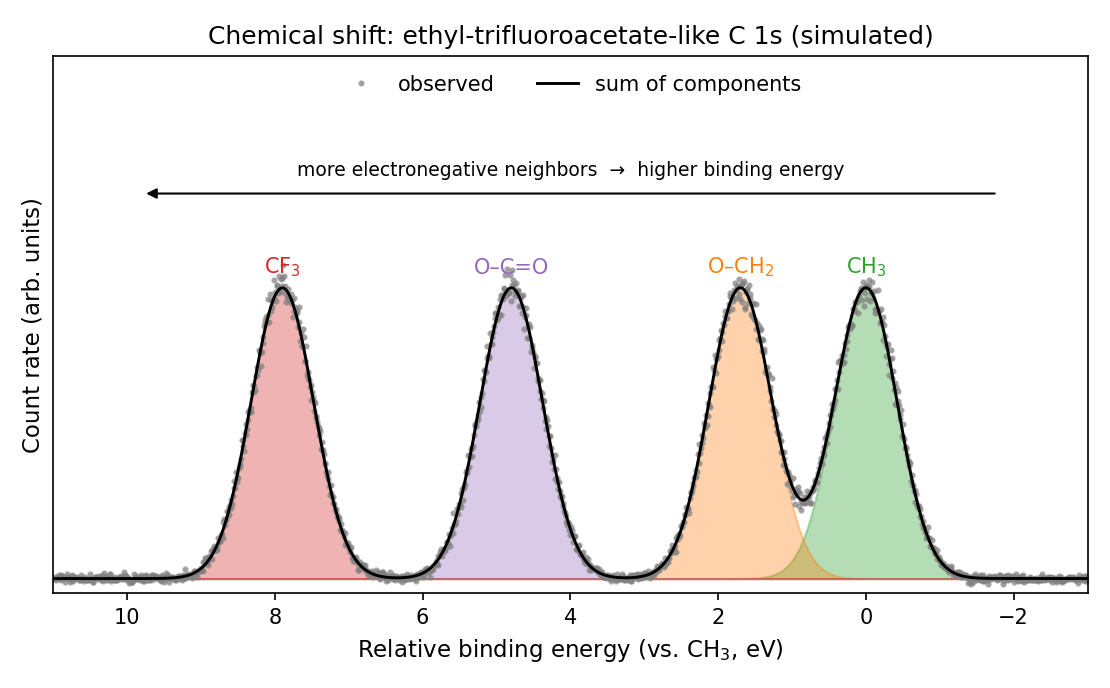
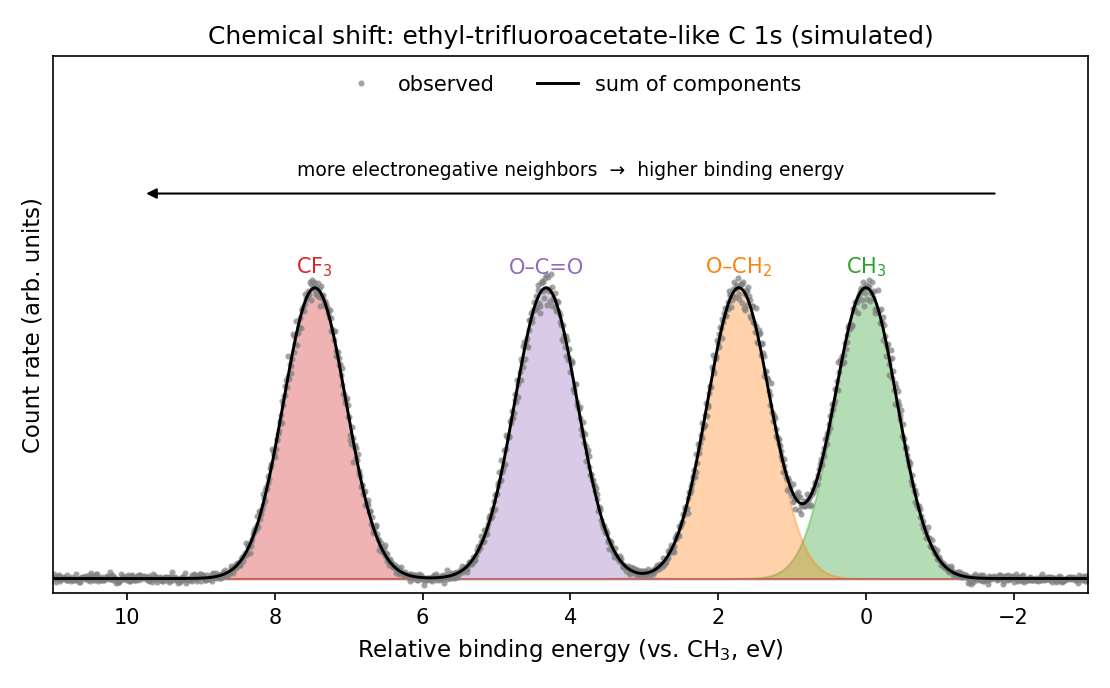
fix(post): xps-photoemission-binding-energy — 선폭·분해능 수치, ESCA 분자 경위, C 1s 폭과 그림2 성분 위치 정정
- Al Kα 0.85 eV를 '자연선폭'이라 부름: 0.85 eV는 Kα1·Kα2 이중선(간격 약 0.41 eV)을
  합친 반치폭이고, 단일 선의 자연폭은 각 0.43 eV다(Krause & Oliver 1979 표1,
  NIST XrayTrans). '이중선을 합친 반치폭'으로 고침.
- 단색화 후 선폭 '약 0.26 eV': 석영 단색화기의 X선 선폭은 0.16~0.22 eV(HP Journal
  1973-07, SPECS FOCUS 500)이고, 0.26 eV는 장비 전체 분해능(Thermo D16105)에 가깝다.
  '0.2~0.3 eV 정도'로 고침.
- 'ESCA 분자' 별명이 '자주 쓰여서' 붙었다는 경위: Siegbahn 노벨 강연(1981)과
  Patanen et al. 2015에 따르면 화학이동 시연용으로 골라 1967년 첫 ESCA 모노그래프에
  실은 분자다. 그 경위로 고침.
- 네 피크 전체 폭 '약 8 eV': Travnikova 2012의 측정값(CH3 291.47 → CF3 298.93 eV,
  arXiv:2206.05627 표2·3, arXiv:2107.10423 표1)으로는 7.46 eV다. 8 eV를 넘는 것은
  Gelius 등 1973의 값(8.25 eV)이다. '약 7.5 eV(1973년 Gelius 등은 약 8.3 eV)'로 고침.
- 그림2 성분 위치: 1.7/4.8/7.9 eV(간격 1.7·3.1·3.1)가 측정 간격 1.72·2.61·3.13 eV와
  달랐다. generate_figures.py의 위치를 0/1.72/4.33/7.46 eV로 고쳐 다시 그렸고, 캡션을
  '측정값(CH₃ 기준 1.72, 4.33, 7.46 eV)에 맞췄다'로 고침.
- 고체 화학이동 '이보다 작아서 대개 0.5~4 eV': 큰 이동도 있다(NIST TN 1289는 최대
  10 eV, 황화물→황산염 약 7.5 eV). 0.5~4 eV는 두고 '큰 경우에도 10 eV 안팎' 단서를 붙임.
- '장비 분해능은 좋아야 0.5 eV 안팎': 장비 분해능은 약 0.21~0.26 eV(Thermo D16105,
  SPECS FOCUS 500)이고, 0.4~0.5 eV는 자연폭이 더해진 관측 피크 폭이다. 2절과도
  어긋났다. 분해능 약 0.25 eV와 피크 폭 0.4~0.5 eV를 나눠 적음.

바뀐 그림: fig3-chemical-shift.png 한·영 (본문 그림2)

diff --git a/_code/xps-photoemission-binding-energy/generate_figures.py b/_code/xps-photoemission-binding-energy/generate_figures.py
@@ -103,11 +103,11 @@ for _, c, w, a, s, _k in survey_peaks:
     survey += peak_with_step(be, c, w, a, s)
 survey_noisy = rng.poisson(survey * 20) / 20
 
-# 그림3: C 1s 네 성분. 인접 간격 1.7~3.1 eV, 전체 폭 약 8 eV
-# (Travnikova et al. 2012)에 맞춘 모사값이다.
+# 그림3: C 1s 네 성분. Travnikova 2012 측정값(CH3 기준 1.72, 4.33, 7.46 eV)에
+# 맞춘 모사값이다.
 rel = np.linspace(-3, 11, 1400)
 c1s_components = [
-    (r"CH$_3$", 0.0), (r"O–CH$_2$", 1.7), (r"O–C=O", 4.8), (r"CF$_3$", 7.9),
+    (r"CH$_3$", 0.0), (r"O–CH$_2$", 1.72), (r"O–C=O", 4.33), (r"CF$_3$", 7.46),
 ]
 C1S_FWHM, C1S_AREA = 1.0, 42.6   # 피크 높이 약 40
 c1s_parts = [gaussian(rel, pos, C1S_FWHM, C1S_AREA) for _, pos in c1s_components]

diff --git a/_posts/2026-10-02-xps-photoemission-binding-energy-en.md b/_posts/2026-10-02-xps-photoemission-binding-energy-en.md
@@ -47,9 +47,9 @@ A laboratory XPS source is an X-ray tube. An electron beam (typically accelerate
 - Al K$\alpha$: $h\nu = 1486.6$ eV
 - Mg K$\alpha$: $h\nu = 1253.6$ eV
 
-These lines were chosen because they combine sufficient energy with a narrow linewidth. Even so, the natural width of unmonochromated Al K$\alpha$ is about 0.85 eV, too broad to resolve many chemical shifts. The tube also emits weak K$\alpha_{3,4}$ satellite lines next to the main line, together with bremsstrahlung, the continuous spectrum radiated by decelerating electrons. The satellites create spurious peaks, and the bremsstrahlung raises the background.
+These lines were chosen because they combine sufficient energy with a narrow linewidth. Even so, the linewidth of unmonochromated Al K$\alpha$ (the FWHM of the unresolved K$\alpha_1$/K$\alpha_2$ doublet) is about 0.85 eV, too broad to resolve many chemical shifts. The tube also emits weak K$\alpha_{3,4}$ satellite lines next to the main line, together with bremsstrahlung, the continuous spectrum radiated by decelerating electrons. The satellites create spurious peaks, and the bremsstrahlung raises the background.
 
-Most modern instruments therefore use a monochromator. It relies on Bragg diffraction from a quartz crystal to select a narrow slice of Al K$\alpha$ and focus it onto the sample. After monochromatization the linewidth drops to about 0.26 eV, and the satellites and bremsstrahlung are filtered out. The price is intensity. The crystal reflects only a narrow band, so most of the photons from the source are discarded. This trade between resolution and signal will come up repeatedly in later parts.
+Most modern instruments therefore use a monochromator. It relies on Bragg diffraction from a quartz crystal to select a narrow slice of Al K$\alpha$ and focus it onto the sample. After monochromatization the linewidth drops to roughly 0.2–0.3 eV, and the satellites and bremsstrahlung are filtered out. The price is intensity. The crystal reflects only a narrow band, so most of the photons from the source are discarded. This trade between resolution and signal will come up repeatedly in later parts.
 
 A dual anode with both aluminum and magnesium has no monochromator, but it is useful in another way. When the source energy changes, photoelectron peaks stay put on the binding-energy axis while Auger peaks move. Part 3 shows how this separates overlapping peaks.
 
@@ -83,14 +83,14 @@ $$ \Delta E_{B,i} = k\,q_i + \sum_{j \neq i} \frac{q_j}{r_{ij}} $$
 
 The first term is the effect of the atom's own charge. The second is a Madelung-type potential from neighboring charges $q_j$ at distances $r_{ij}$. The second term often has the opposite sign to the first, so the two partly cancel. The model covers only the initial state; relaxation is not in it.
 
-The textbook illustration of the chemical shift is ethyl trifluoroacetate ($\mathrm{CF_3COOCH_2CH_3}$). The molecule has four carbon atoms, each with very different neighbors. The methyl (CH₃) carbon is surrounded only by carbon and hydrogen. The CH₂ carbon of the ethyl group bonds to one oxygen, the carboxyl carbon to two, and the CF₃ carbon to three fluorine atoms, the most electronegative element. The C 1s spectrum of this molecule splits into four peaks, and their order matches the electronegativity of the neighbors exactly. It was used so often in early ESCA work that it became known as "the ESCA molecule".
+The textbook illustration of the chemical shift is ethyl trifluoroacetate ($\mathrm{CF_3COOCH_2CH_3}$). The molecule has four carbon atoms, each with very different neighbors. The methyl (CH₃) carbon is surrounded only by carbon and hydrogen. The CH₂ carbon of the ethyl group bonds to one oxygen, the carboxyl carbon to two, and the CF₃ carbon to three fluorine atoms, the most electronegative element. The C 1s spectrum of this molecule splits into four peaks, and their order matches the electronegativity of the neighbors exactly. Siegbahn's group chose it to demonstrate the chemical shift in their first ESCA monograph (1967), and it has been known as "the ESCA molecule" ever since.
 
 <img src="/assets/img/posts/xps-photoemission-binding-energy/en/fig3-chemical-shift.png" alt="Component decomposition of an ethyl-trifluoroacetate-like C 1s spectrum" width="620">
-_Figure 2. Simulated C 1s spectrum of the ethyl trifluoroacetate type. Component spacings follow the range reported by Travnikova et al. (2012)._
+_Figure 2. Simulated C 1s spectrum of the ethyl trifluoroacetate type. Component positions follow the values measured by Travnikova et al. (2012) (1.72, 4.33 and 7.46 eV relative to CH₃)._
 
-In gas-phase measurements the four peaks spread over about 8 eV, with 1.7–3.1 eV between neighboring peaks. Figure 2 is a spectrum synthesized with those spacings. The shift range is exceptionally large here because three fluorine atoms sit on one carbon. Chemical shifts commonly met in solid samples are smaller, typically 0.5–4 eV. Silicon shows oxidation states most clearly. The Si 2p level sits at about 99.4 eV for elemental Si(0) and about 103.3 eV for Si(4+) in SiO₂, a shift of roughly 4 eV on oxidation. The intermediate oxidation states (Si¹⁺, Si²⁺, Si³⁺) fall in order between those two values.
+In gas-phase measurements the four peaks spread over about 7.5 eV (about 8.3 eV in the 1973 measurement by Gelius et al.), with 1.7–3.1 eV between neighboring peaks. Figure 2 is a spectrum synthesized with those spacings. The shift range is exceptionally large here because three fluorine atoms sit on one carbon. Chemical shifts commonly met in solid samples are typically 0.5–4 eV, and even large ones stay within about 10 eV. Silicon shows oxidation states most clearly. The Si 2p level sits at about 99.4 eV for elemental Si(0) and about 103.3 eV for Si(4+) in SiO₂, a shift of roughly 4 eV on oxidation. The intermediate oxidation states (Si¹⁺, Si²⁺, Si³⁺) fall in order between those two values.
 
-Put a shift of 0.5–4 eV next to the linewidths in Section 2 and the problem is clear. Instrumental resolution is at best around 0.5 eV, the same order of magnitude as the shifts. Peaks from neighboring chemical states often do not separate cleanly; they overlap into what looks like a single peak. Splitting such an envelope into components is peak fitting, and its difficulties and pitfalls are the subject of Part 4.
+Put a shift of 0.5–4 eV next to the linewidths in Section 2 and the problem is clear. Even with a monochromated source, the instrumental resolution (about 0.25 eV) combines with the natural width of the level to give peak widths of around 0.4–0.5 eV, the same order of magnitude as the shifts. Peaks from neighboring chemical states often do not separate cleanly; they overlap into what looks like a single peak. Splitting such an envelope into components is peak fitting, and its difficulties and pitfalls are the subject of Part 4.
 
 The title of this section needs a qualification. The chemical shift is mostly explained by initial-state effects, but not always. The relaxation energy $E_R$ from Section 3 also depends on chemical environment. Where free electrons are abundant, as in a metal, the core hole is screened well; in an insulator, less so. A measured shift $\Delta E_B$ contains both contributions, and binding energy alone cannot separate them. Part 3 shows how the Auger parameter, which combines a photoelectron peak with an Auger peak, pulls the two apart.
 
